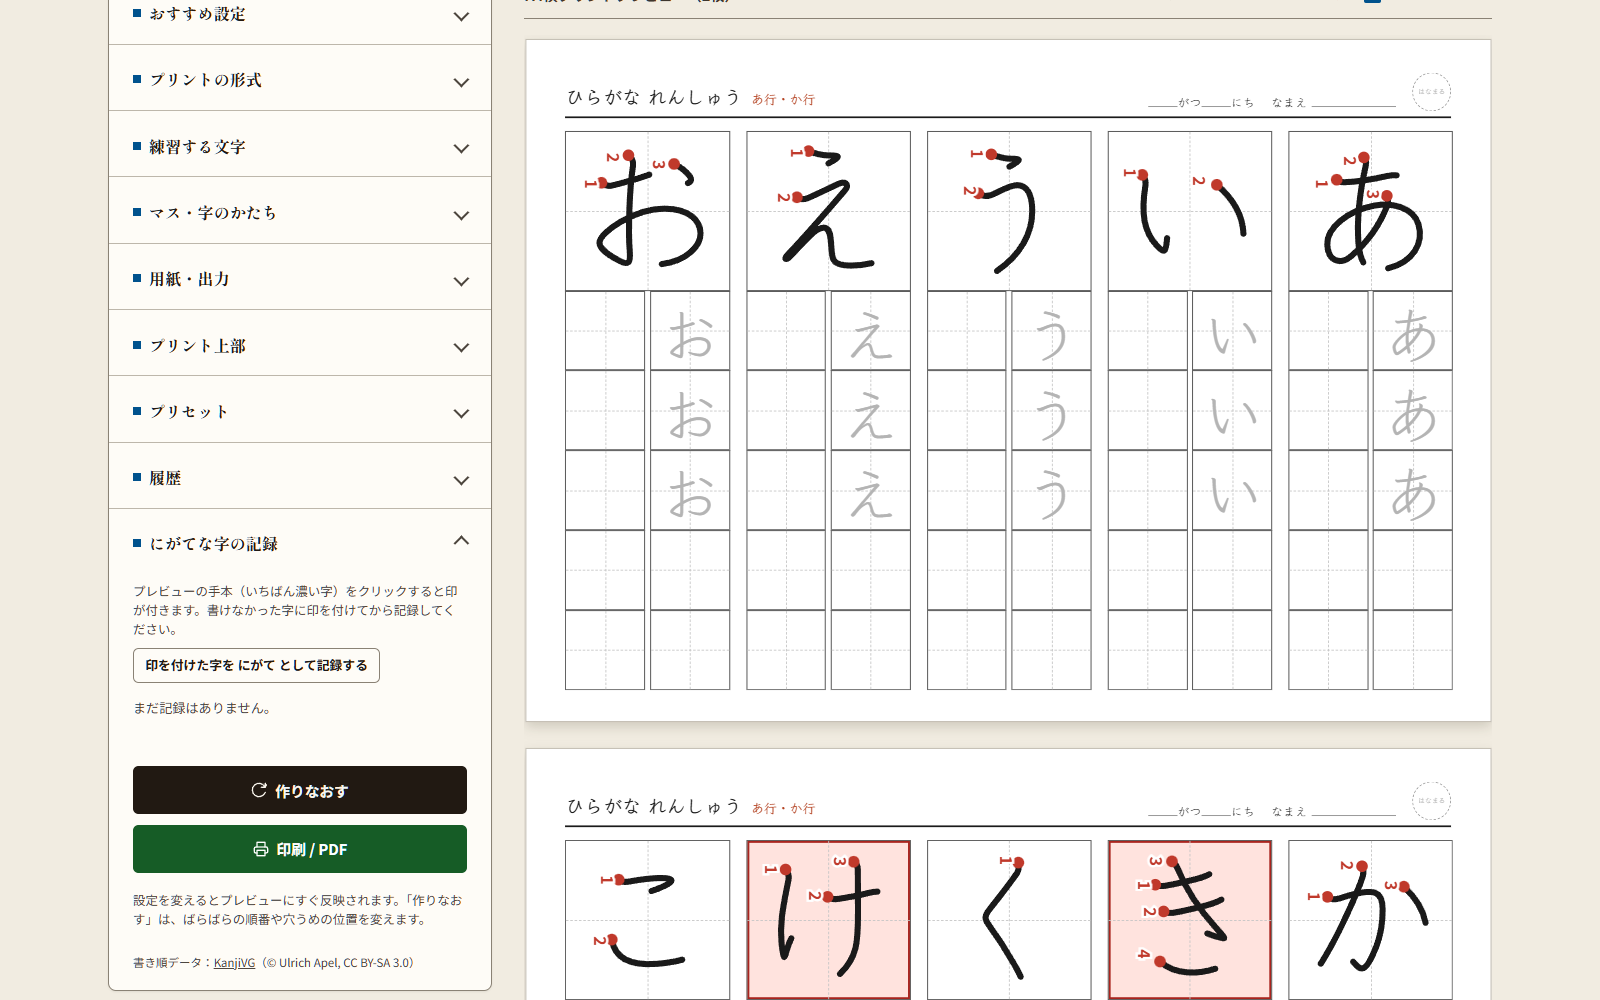
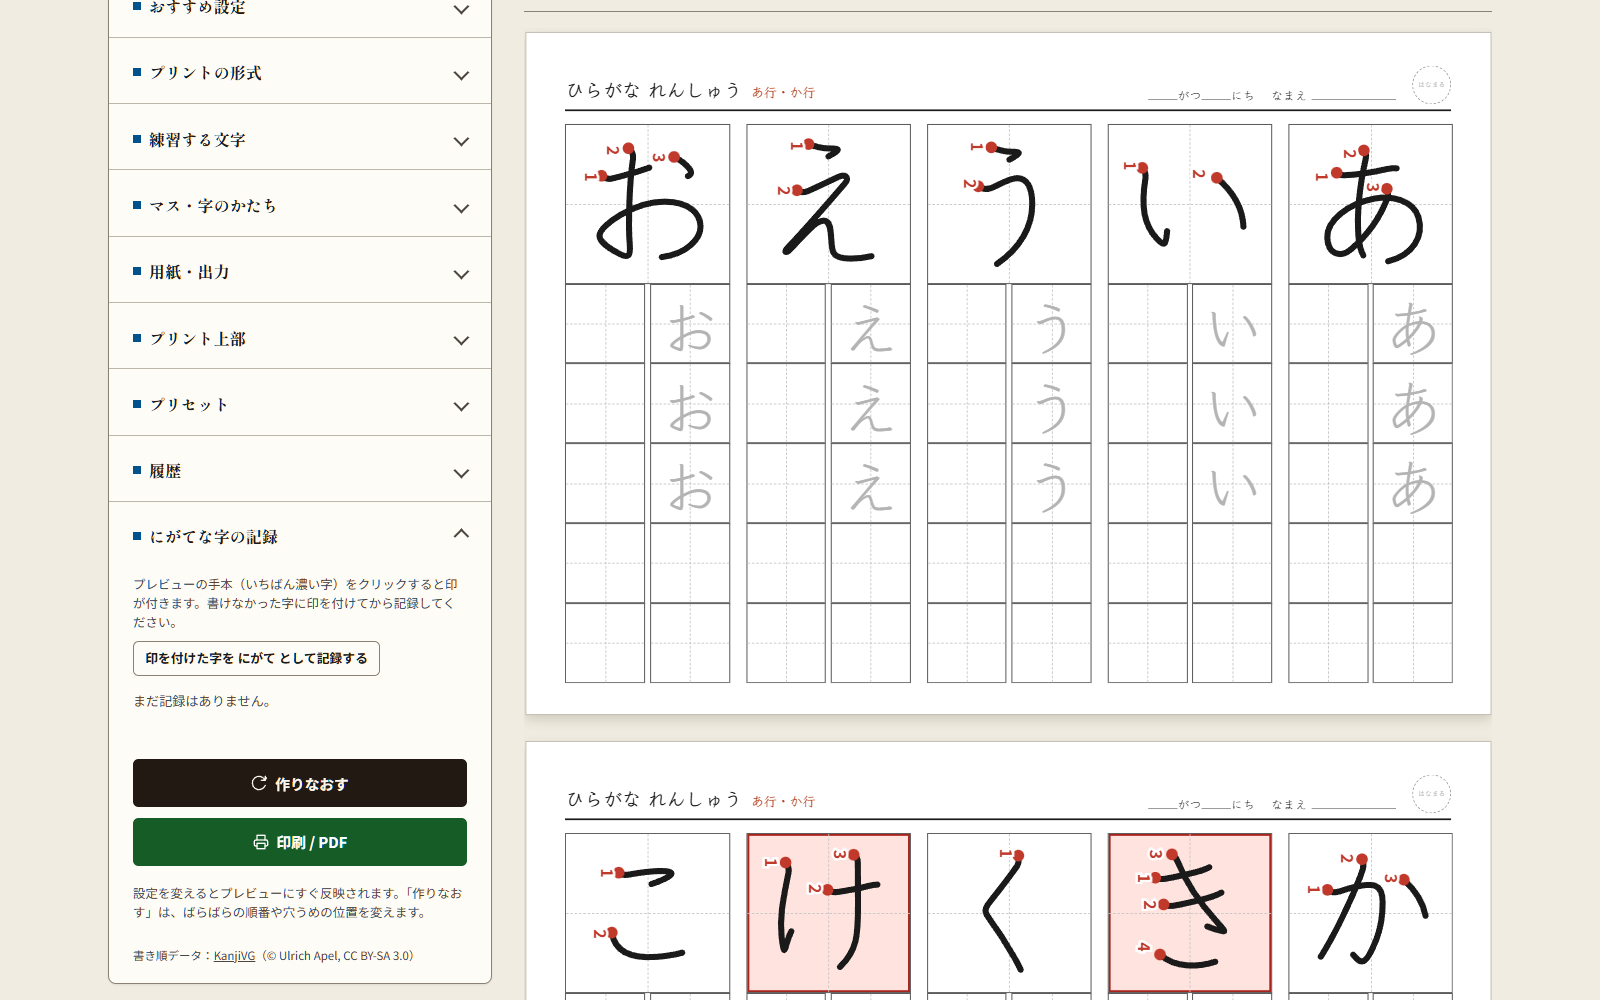
行れんしゅうを1つの行ごとに1ページにする
- 行からえらんで あいうえお順 のときは、あ行・か行…を1ページずつにする
- マスは5文字で用紙の幅がちょうど埋まる大きさにそろえ、
  や行・わ・を・ん など3文字の行は左右の中央に置く
- わ行もえらんでいれば「ん」をわ行のページにまとめる
- Service Worker のキャッシュ名を更新
- README・利用ガイド・スクリーンショットを合わせる

diff --git a/public/sheets.js b/public/sheets.js
@@ -148,11 +148,13 @@ function makeBody(dims) {
   return body;
 }
 
-function pagesToBodies(pages, dims, gapBetween, maxUsed) {
+// centerBlock のときは、ページの列が少なくても左右（block 方向）の中央に置く
+function pagesToBodies(pages, dims, gapBetween, maxUsed, centerBlock = false) {
   return pages.map(page => {
     const body = makeBody(dims);
     // 行の長さがそろうので、余った分を inline 方向の前後に振り分けて中央に置く
     body.style.paddingInlineStart = Math.max(0, (dims.inline - maxUsed) / 2) + 'mm';
+    if (centerBlock) body.style.paddingBlockStart = Math.max(0, (dims.block - page.used) / 2) + 'mm';
     page.items.forEach((b, i) => {
       if (i > 0) b.el.style.marginBlockStart = gapBetween + 'mm';
       body.appendChild(b.el);
@@ -263,8 +265,13 @@ function bigModelBlock(unit, dims, s, ctx, blankCols, traceCount) {
 // ページの数を1枚から順に試し、文字をページに均等に分けたときのマスの大きさが、
 // 選んだ大きさにいちばん近い分け方を選ぶ（あ行の5文字なら、5文字で1枚をちょうど埋める）。
 // 大きくするのは、1列に 手本2マス + なぞり + 空マス1つ が入るところまで。
+// n 文字で用紙の幅をちょうど埋めるマスの大きさ
+function sizeForCount(n, cols, block, between) {
+  return ((block - (n - 1) * between) / n - (cols - 1) * GAP_IN) / cols;
+}
+
 function fitCellSize(s, cols, block, between, total, maxSize) {
-  const sizeFor = n => ((block - (n - 1) * between) / n - (cols - 1) * GAP_IN) / cols;
+  const sizeFor = n => sizeForCount(n, cols, block, between);
   let best = null;
   for (let pages = 1; pages <= Math.max(1, total); pages++) {
     const size = sizeFor(Math.ceil(Math.max(1, total) / pages));
@@ -275,12 +282,28 @@ function fitCellSize(s, cols, block, between, total, maxSize) {
   return Math.floor(best * 100) / 100; // 端数で次の列がはみ出さないよう切り捨てる
 }
 
-export function buildLinePages(cfg, units, ctx) {
+// groups を渡したとき（行からえらんで、あいうえお順）は、1つの行を1ページにする。
+// マスはいちばん字の多い行（ふつうは5文字）で用紙の幅がちょうど埋まる大きさにそろえ、
+// 字の少ない行（や行・わ行など）は左右の中央に置く。
+export function buildLinePages(cfg, units, ctx, groups) {
   const dims = paperDims(cfg);
   const between = 5;
+  const cols = cfg.blankCols + 1;
   const maxSize = dims.inline / (2 + Math.max(1, cfg.traceCount) + 1);
-  const s = fitCellSize(cfg.cellSize, cfg.blankCols + 1, dims.block, between, units.length, maxSize);
-  const blocks = units.map(unit => bigModelBlock(unit, dims, s, ctx, cfg.blankCols, cfg.traceCount));
+  const block = unit => bigModelBlock(unit, dims, s, ctx, cfg.blankCols, cfg.traceCount);
+  let s;
+  if (groups && groups.length) {
+    const most = Math.max(...groups.map(g => g.length));
+    s = Math.floor(Math.min(sizeForCount(most, cols, dims.block, between), maxSize) * 100) / 100;
+    const pages = groups.map(g => {
+      const items = g.map(block);
+      return { items, used: items.reduce((sum, b) => sum + b.size, 0) + (items.length - 1) * between };
+    });
+    const maxUsed = Math.max(0, ...pages.flatMap(p => p.items.map(b => b.used)));
+    return pagesToBodies(pages, dims, between, maxUsed, true);
+  }
+  s = fitCellSize(cfg.cellSize, cols, dims.block, between, units.length, maxSize);
+  const blocks = units.map(block);
   const maxUsed = Math.max(0, ...blocks.map(b => b.used));
   return pagesToBodies(paginate(blocks, dims, between), dims, between, maxUsed);
 }

diff --git a/public/app.js b/public/app.js
@@ -136,6 +136,19 @@ function resolveUnits(cfg) {
   return selectedRows(cfg).flatMap(r => r.chars.filter(Boolean)).map(u => conv(cfg, u));
 }
 
+// 行ごとの字のまとまり。「ん」は、わ行もえらんでいれば わ・を・ん で1つにする
+function rowGroups(cfg) {
+  const groups = [];
+  let prevKey = null;
+  for (const r of selectedRows(cfg)) {
+    const chars = r.chars.filter(Boolean).map(u => conv(cfg, u));
+    if (r.key === 'n' && prevKey === 'wa') groups[groups.length - 1].push(...chars);
+    else groups.push(chars);
+    prevKey = r.key;
+  }
+  return groups;
+}
+
 function wordEntries(cfg) {
   const list = cfg.script === 'kata' ? WORDS_KATAKANA : WORDS_HIRAGANA;
   return list.map(([text, pic, focus]) => ({ text, pic, focus: focus ? conv(cfg, focus) : splitUnits(text)[0] }));
@@ -264,9 +277,11 @@ function buildSheets(cfg, seed) {
       ? 'にがてな字がまだ記録されていません。'
       : cfg.source === 'custom' ? '練習する字を入力してください。' : '練習する行を1つ以上えらんでください。');
     if (cfg.order === 'random') units = shuffle(units, rng);
+    // 行からえらんで あいうえお順 のときは、行れんしゅうを1つの行ごとに1ページにする
+    const groups = cfg.source === 'rows' && cfg.order !== 'random' ? rowGroups(cfg) : null;
     const bodies = cfg.format === 'single'
       ? buildSinglePages(cfg, units, ctx, findWord)
-      : buildLinePages(cfg, units, ctx);
+      : buildLinePages(cfg, units, ctx, groups);
     bodies.forEach(b => sheets.push(wrapSheet(b, cfg, badge)));
   }
   return sheets;

diff --git a/public/index.html b/public/index.html
@@ -87,7 +87,7 @@
               </select>
             </label>
           </div>
-          <div class="help-text">1文字ごとに、右上に4マス分の大きな手本（書き順の番号つき）を1つ置きます。手本の下の右の列は上から「なぞる数」だけうすいなぞり字（残りは空マス）、そこから左は自分で書く空マスの列です。書く列の数には、手本の下の左の列も入ります。用紙の幅にぴったり収まるよう、マスの大きさは少しだけ調整されます。</div>
+          <div class="help-text">1文字ごとに、右上に4マス分の大きな手本（書き順の番号つき）を1つ置きます。手本の下の右の列は上から「なぞる数」だけうすいなぞり字（残りは空マス）、そこから左は自分で書く空マスの列です。書く列の数には、手本の下の左の列も入ります。行からえらんで あいうえお順 のときは、1つの行を1ページにします。用紙の幅にぴったり収まるよう、マスの大きさは調整されます。</div>
         </div>
 
         <div class="op-block" data-for="word">

diff --git a/public/sw.js b/public/sw.js
@@ -1,4 +1,4 @@
-const CACHE_NAME = 'hiragana-renshu-v5';
+const CACHE_NAME = 'hiragana-renshu-v6';
 const PRECACHE_URLS = [
   '/', '/index.html', '/style.css', '/app.js', '/store.js', '/kana.js', '/render.js', '/sheets.js',
   '/data/strokes.js', '/manifest.webmanifest', '/icons/hiragana.svg',

diff --git a/README.md b/README.md
@@ -37,7 +37,7 @@
 | 行れんしゅう | 1もじじっくり | ことば |
 |:---:|:---:|:---:|
 | [![行れんしゅうのプリント](docs/screenshots/sheet-line.png)](docs/screenshots/sheet-line.png) | [![1もじじっくりのプリント](docs/screenshots/sheet-single.png)](docs/screenshots/sheet-single.png) | [![ことばのプリント](docs/screenshots/sheet-word.png)](docs/screenshots/sheet-word.png) |
-| 4マス分の大きな手本（書き順の番号つき）を1つ。その下にうすいなぞり字3マス、左は自分で書く空マスの列。あ行の5文字がA4横1枚にぴったり収まります。 | 大きな手本と1画ずつの書き順図、例のことば（絵つき）。はじめて習う字にぴったり。 | 「あり」「いぬ」などのことばを、絵（絵文字）つきの手本の列と、なぞりの列で。 |
+| 4マス分の大きな手本（書き順の番号つき）を1つ。その下にうすいなぞり字3マス、左は自分で書く空マスの列。1つの行（あ行・か行…）を1ページにぴったり収めます。 | 大きな手本と1画ずつの書き順図、例のことば（絵つき）。はじめて習う字にぴったり。 | 「あり」「いぬ」などのことばを、絵（絵文字）つきの手本の列と、なぞりの列で。 |
 
 | 50音ひょう（穴うめ） | 国語ノート風 |
 |:---:|:---:|

diff --git a/docs/USAGE.md b/docs/USAGE.md
@@ -61,7 +61,9 @@
 
 - **書く列の数**（1〜4列、はじめは1列）：空マスの列の数です。手本の下の左の列も1つに数えます。1列なら、1文字が「なぞりの列＋書く列」の2列になり、あ行の5文字がA4横1枚に収まります。
 
-用紙の左右に余白が残らないよう、文字を各ページに均等に分け、マスの大きさを用紙の幅に合わせて調整します（選んだ大きさにいちばん近くなる分け方を選びます）。たとえば、あ行の5文字はマスを少し大きくして1枚にちょうど並べます。
+「行からえらぶ」で「あいうえお順」のときは、**1つの行を1ページ**にします（あ行で1枚、か行で1枚…）。マスは5文字で用紙の幅がちょうど埋まる大きさになり、や行・わ・を・ん のような3文字の行は左右の中央に置きます。
+
+それ以外（ばらばら・じぶんで入力・にがてな字）は、文字を各ページに均等に分け、左右に余白が残らないようマスの大きさを選んだ大きさの近くで調整します。
 
 ### 1もじじっくり
 
